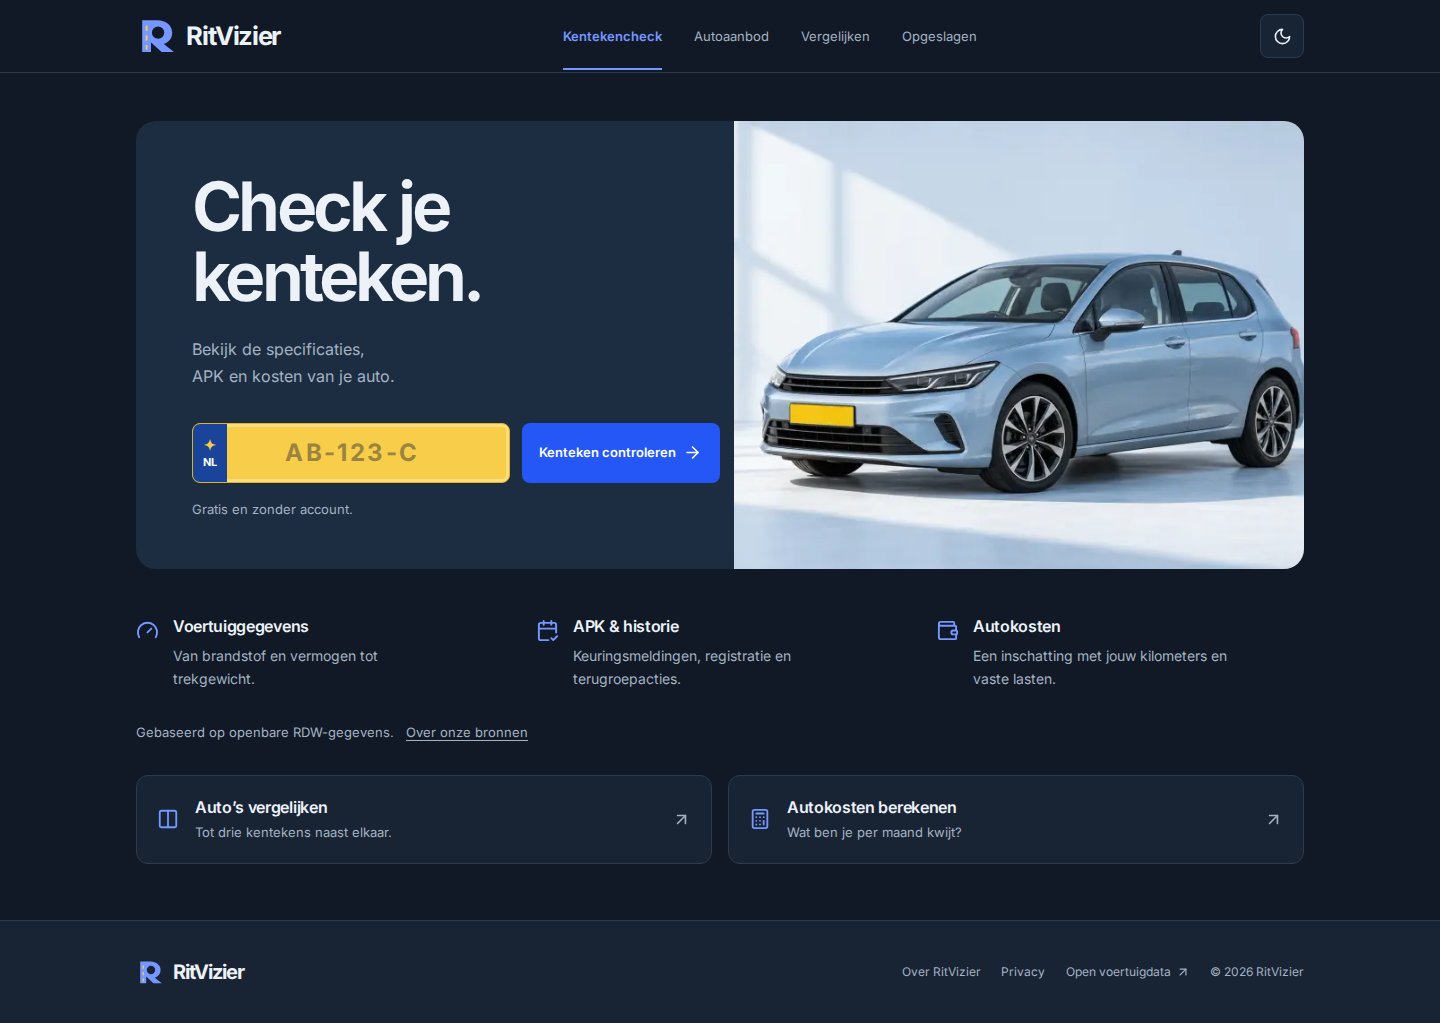
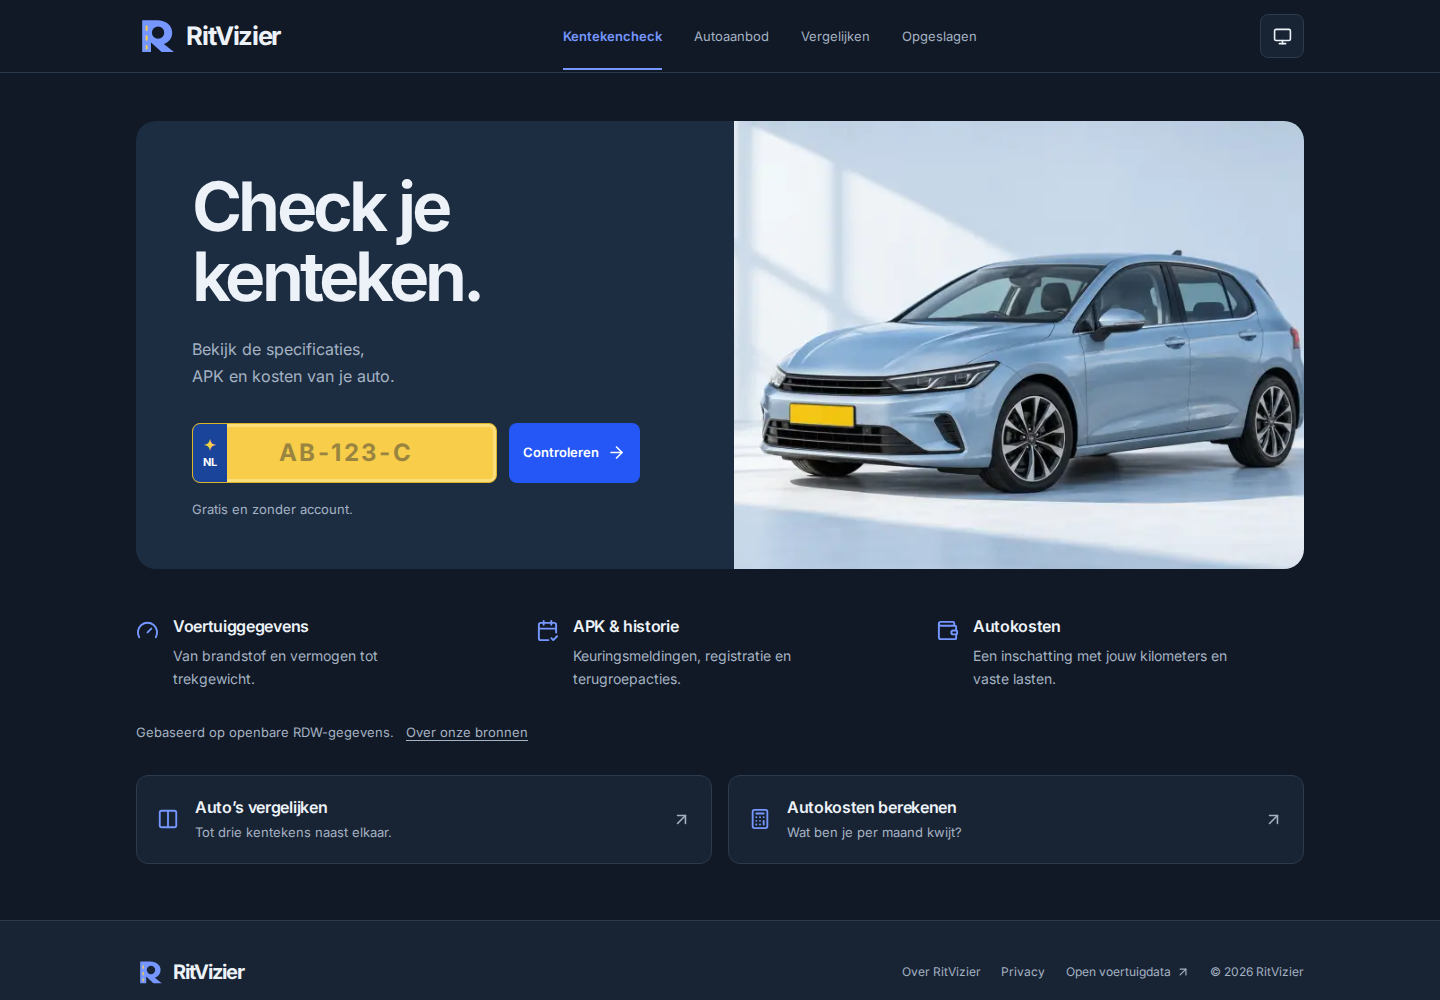
fix(ui): narrow the license plate search button

diff --git a/frontend/src/app/page.module.css b/frontend/src/app/page.module.css
@@ -3,14 +3,19 @@
 }
 
 .hero {
+  --hero-surface: #e9f1fa;
+  position: relative;
+  isolation: isolate;
   display: grid;
   overflow: hidden;
   border-radius: 1.25rem;
-  background: #e9f1fa;
+  background: var(--hero-surface);
   color: #202a36;
 }
 
 .copy {
+  position: relative;
+  z-index: 1;
   padding: 2rem 1.25rem;
   min-width: 0;
 }
@@ -33,7 +38,7 @@
 }
 
 .search {
-  max-width: 33rem;
+  max-width: 28rem;
   text-align: left;
 }
 
@@ -53,8 +58,10 @@
 }
 
 .search :global(.search-button) {
+  justify-self: start;
   font-size: 0.8125rem;
-  padding-inline: 1.1rem;
+  padding-inline: 0.875rem;
+  gap: 0.5rem;
   background: #2457f5;
   color: #fff;
 }
@@ -81,11 +88,19 @@
   position: relative;
   min-width: 0;
   height: 15rem;
+  pointer-events: none;
+}
+
+.visual::after {
+  content: "";
+  position: absolute;
+  inset: 0;
+  background: linear-gradient(to bottom, var(--hero-surface), transparent 35%);
 }
 
 .car {
   object-fit: cover;
-  object-position: center 60%;
+  object-position: 85% center;
 }
 
 .details {
@@ -182,8 +197,12 @@
 }
 
 :global([data-theme="dark"]) .hero {
-  background: #1c2d42;
+  --hero-surface: #1c2d42;
   color: var(--ink);
+}
+
+:global([data-theme="dark"]) .car {
+  filter: brightness(0.75);
 }
 
 :global([data-theme="dark"]) .description,
@@ -230,10 +249,22 @@
     z-index: 1;
   }
   .visual {
-    height: 100%;
+    position: absolute;
+    inset: 0;
+    height: auto;
+    z-index: -1;
+  }
+  .visual::after {
+    background: linear-gradient(
+      to right,
+      var(--hero-surface) 5%,
+      color-mix(in srgb, var(--hero-surface) 97%, transparent) 30%,
+      color-mix(in srgb, var(--hero-surface) 85%, transparent) 43%,
+      transparent 65%
+    );
   }
   .car {
-    object-position: 47% center;
+    object-position: right center;
   }
   .search :global(.search-controls) {
     grid-template-columns: minmax(0, 1fr);

diff --git a/frontend/src/components/search/LicensePlateInput.tsx b/frontend/src/components/search/LicensePlateInput.tsx
@@ -78,12 +78,18 @@ export function LicensePlateInput({ compact = false }: { compact?: boolean }) {
             </button>
           )}
         </div>
-        <button className="button search-button" disabled={busy || !hydrated}>
-          {busy
-            ? "Gegevens ophalen…"
-            : compact
-              ? "Zoeken"
-              : "Kenteken controleren"}
+        <button
+          className="button search-button"
+          aria-label={
+            busy
+              ? "Gegevens ophalen…"
+              : compact
+                ? "Zoeken"
+                : "Kenteken controleren"
+          }
+          disabled={busy || !hydrated}
+        >
+          {busy ? "Ophalen…" : compact ? "Zoeken" : "Controleren"}
           <ArrowRight size={19} />
         </button>
       </div>

diff --git a/CHANGELOG.md b/CHANGELOG.md
@@ -4,6 +4,10 @@ User-visible changes use semantic versions and annotated Git tags. Dates use the
 
 ## Unreleased
 
+- Added a Dutch-road homepage hero photograph with a soft search-area fade and responsive light/dark presentation.
+
+- Made the homepage search button narrower with a shorter label and less horizontal padding.
+
 - Added a studio-car homepage hero, a custom road-and-lens logo, matching favicon/app icons and share artwork, and responsive light/dark styling while keeping the shorter copy.
 
 - Simplified the homepage around license-plate search, with shorter copy and compact comparison/cost links. Removed decorative previews, eyebrow headings, repeated calls to action and slogans; tightened navigation, vehicle views and page titles.
